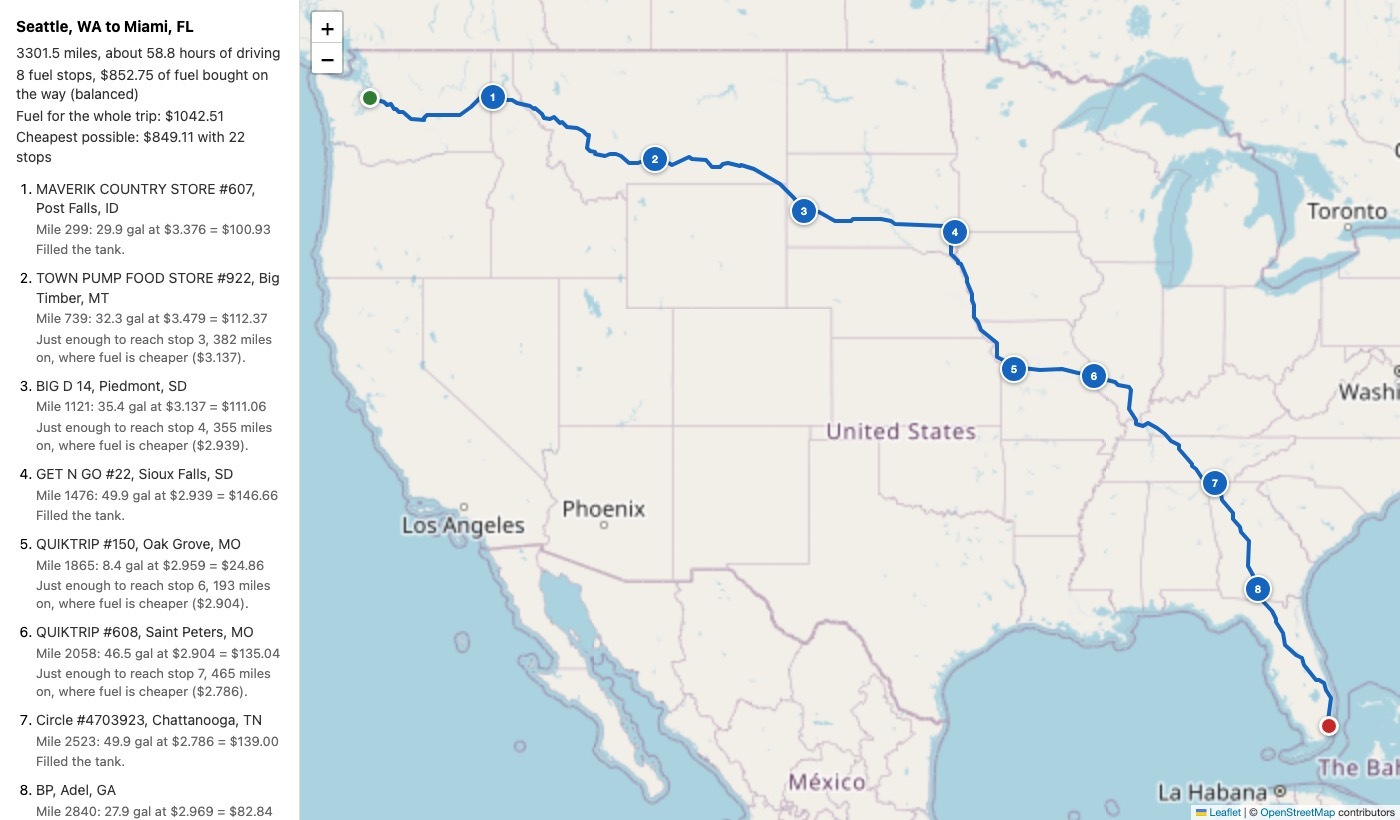
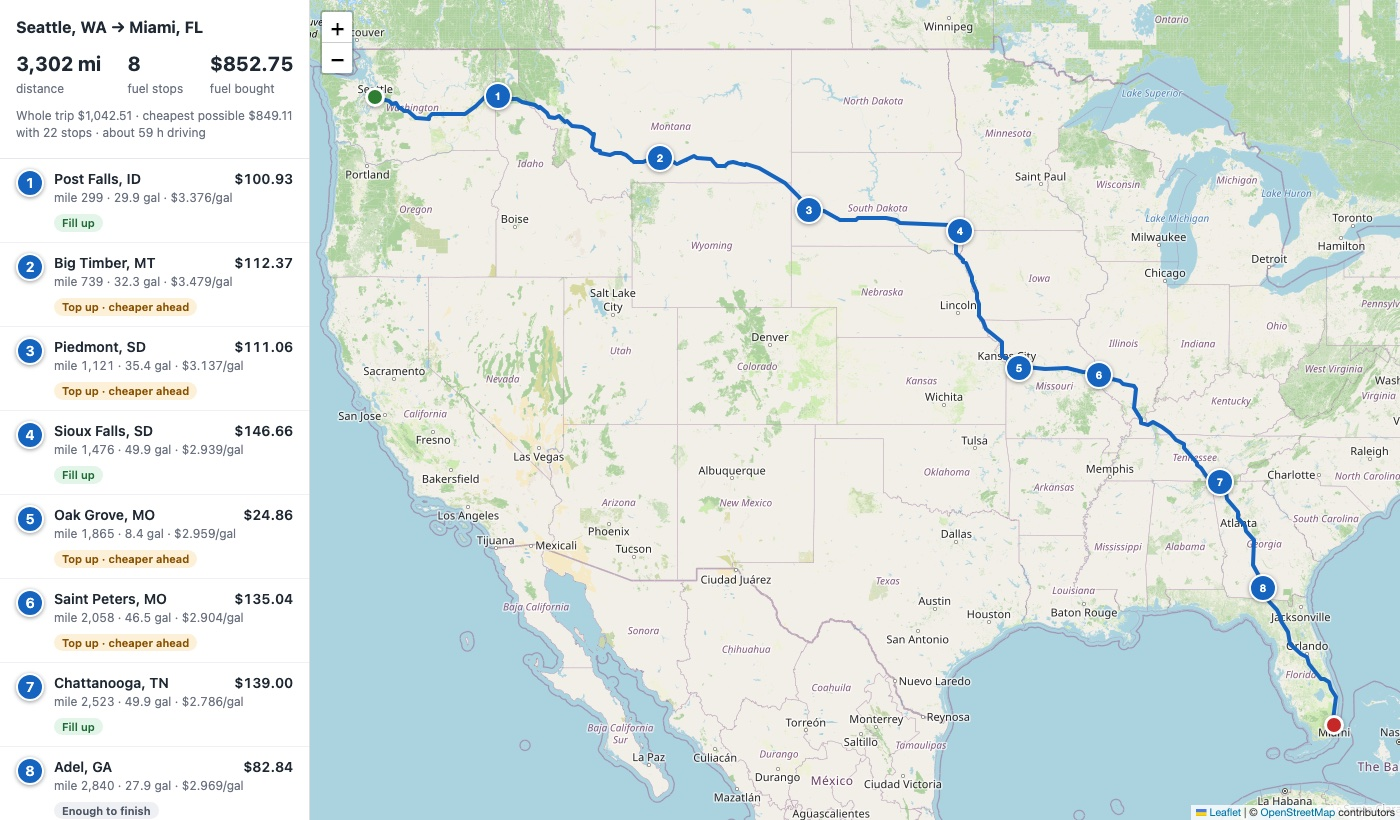
Make the map panel readable at a glance
Three headline numbers, one short line per stop with a tag (fill up or
top up before cheaper fuel), and the full reasons in each stop's popup.

diff --git a/fuel/templates/fuel/map.html b/fuel/templates/fuel/map.html
@@ -7,26 +7,40 @@
   <link rel="stylesheet" href="https://unpkg.com/leaflet@1.9.4/dist/leaflet.css">
   <script src="https://unpkg.com/leaflet@1.9.4/dist/leaflet.js"></script>
   <style>
-    html, body { height: 100%; margin: 0; font: 14px/1.4 system-ui, sans-serif; }
+    html, body { height: 100%; margin: 0; font: 14px/1.4 system-ui, sans-serif; color: #1f2933; }
     body { display: flex; }
-    #panel { width: 300px; flex: none; padding: 16px; box-sizing: border-box; overflow-y: auto;
+    #panel { width: 310px; flex: none; box-sizing: border-box; overflow-y: auto;
              border-right: 1px solid #ddd; background: #fff; }
     #map { flex: 1; }
     @media (max-width: 700px) { body { flex-direction: column; } #panel { width: auto; border: 0; } }
-    #panel h1 { font-size: 15px; margin: 0 0 6px; }
-    #panel p { margin: 2px 0; color: #333; }
-    #panel .error { color: #b00020; }
-    #panel ol { padding-left: 20px; margin: 12px 0 0; }
-    #panel li { margin-bottom: 10px; }
-    #panel .muted { color: #666; font-size: 13px; }
+    #panel .error { color: #b00020; padding: 16px; }
+    .head { padding: 16px; border-bottom: 1px solid #e5e7eb; }
+    .head h1 { font-size: 16px; margin: 0 0 12px; }
+    .figures { display: flex; justify-content: space-between; gap: 8px; }
+    .figures b { display: block; font-size: 20px; font-variant-numeric: tabular-nums; }
+    .figures span { color: #6b7280; font-size: 12px; }
+    .aside { color: #6b7280; font-size: 12px; margin: 10px 0 0; }
+    .stops { list-style: none; margin: 0; padding: 0; }
+    .stops li { display: flex; gap: 10px; padding: 10px 16px; border-bottom: 1px solid #f0f1f3; cursor: pointer; }
+    .stops li:hover { background: #f5f8fc; }
+    .stops .body { flex: 1; min-width: 0; }
+    .stops .top { display: flex; justify-content: space-between; gap: 8px; font-weight: 600; }
+    .stops .top span:last-child { font-variant-numeric: tabular-nums; }
+    .stops .detail { color: #6b7280; font-size: 12px; margin: 2px 0 5px; font-variant-numeric: tabular-nums; }
+    .tag { display: inline-block; font-size: 11px; font-weight: 600; padding: 1px 8px; border-radius: 10px; }
+    .tag.fill { background: #e3f4e8; color: #1e6b35; }
+    .tag.top-up { background: #fdf0d9; color: #8a5300; }
+    .tag.other { background: #eef0f3; color: #4b5563; }
+    .popup p { margin: 3px 0; }
+    .popup .muted { color: #6b7280; font-size: 12px; }
     .end { width: 14px; height: 14px; border-radius: 50%; border: 3px solid #fff; box-shadow: 0 1px 4px rgba(0,0,0,.4); }
-    .stop { background: #1565c0; color: #fff; border-radius: 50%; width: 24px; height: 24px;
+    .stop { flex: none; background: #1565c0; color: #fff; border-radius: 50%; width: 24px; height: 24px;
             line-height: 24px; text-align: center; font-weight: 600; border: 2px solid #fff;
             box-shadow: 0 1px 4px rgba(0,0,0,.4); }
   </style>
 </head>
 <body>
-  <div id="panel"><p>Planning the route...</p></div>
+  <div id="panel"><p class="head">Planning the route...</p></div>
   <div id="map"></div>
   <script>
     const map = L.map('map').setView([39.5, -98.35], 4);
@@ -36,11 +50,27 @@
     }).addTo(map);
     const panel = document.getElementById('panel');
 
-    function line(text, className) {
-      const p = document.createElement('p');
-      p.textContent = text;
-      if (className) p.className = className;
-      return p;
+    // Builds an element with text only, so nothing from the response is ever read as HTML.
+    function el(tag, text, className) {
+      const node = document.createElement(tag);
+      if (text !== undefined) node.textContent = text;
+      if (className) node.className = className;
+      return node;
+    }
+    const money = value => '$' + value.toLocaleString('en-US', { minimumFractionDigits: 2, maximumFractionDigits: 2 });
+
+    // A short label for each stop's reason; the full sentence is in its popup.
+    function tag(why) {
+      if (why.startsWith('Filled')) return el('span', 'Fill up', 'tag fill');
+      if (why.startsWith('Just enough')) return el('span', 'Top up · cheaper ahead', 'tag top-up');
+      if (why.includes('destination')) return el('span', 'Enough to finish', 'tag other');
+      return el('span', 'Enough for the next stop', 'tag other');
+    }
+
+    function figure(value, label) {
+      const box = el('div');
+      box.append(el('b', value), el('span', label));
+      return box;
     }
 
     fetch('/api/route/' + window.location.search, { headers: { Accept: 'application/json' } })
@@ -48,31 +78,26 @@
       .then(plan => {
         panel.replaceChildren();
         if (plan.error) {
-          panel.append(line(plan.error.message, 'error'));
+          panel.append(el('p', plan.error.message, 'error'));
           return;
         }
         const s = plan.summary;
-        const title = document.createElement('h1');
-        title.textContent = `${plan.start.resolved} to ${plan.finish.resolved}`;
-        panel.append(
-          title,
-          line(`${s.distance_miles} miles, about ${s.drive_hours} hours of driving`),
-          line(`${s.stops} fuel stops, $${s.fuel_bought_usd.toFixed(2)} of fuel bought on the way (${s.mode})`),
-          line(`Fuel for the whole trip: $${s.trip_fuel_cost_usd.toFixed(2)}`),
-          line(`Cheapest possible: $${plan.compared_to_cheapest.cheapest_cost_usd.toFixed(2)} with ` +
-               `${plan.compared_to_cheapest.cheapest_stops} stops`),
+        const cheapest = plan.compared_to_cheapest;
+        const head = el('div', undefined, 'head');
+        const figures = el('div', undefined, 'figures');
+        figures.append(
+          figure(Math.round(s.distance_miles).toLocaleString('en-US') + ' mi', 'distance'),
+          figure(String(s.stops), s.stops === 1 ? 'fuel stop' : 'fuel stops'),
+          figure(money(s.fuel_bought_usd), 'fuel bought'),
         );
-        const list = document.createElement('ol');
-        plan.stops.forEach(stop => {
-          const item = document.createElement('li');
-          item.append(
-            line(`${stop.name}, ${stop.city}, ${stop.state}`),
-            line(`Mile ${Math.round(stop.mile)}: ${stop.gallons} gal at $${stop.price_per_gallon.toFixed(3)} = $${stop.cost_usd.toFixed(2)}`, 'muted'),
-            line(stop.why, 'muted'),
-          );
-          list.append(item);
-        });
-        panel.append(list);
+        head.append(
+          el('h1', `${plan.start.resolved} → ${plan.finish.resolved}`),
+          figures,
+          el('p', `Whole trip ${money(s.trip_fuel_cost_usd)} · cheapest possible ${money(cheapest.cheapest_cost_usd)} ` +
+                  `with ${cheapest.cheapest_stops} stops · about ${Math.round(s.drive_hours)} h driving`, 'aside'),
+        );
+        panel.append(head);
+
         const route = L.geoJSON(plan.map.features.filter(f => f.properties.kind === 'route'),
                                 { style: { color: '#1565c0', weight: 4 } }).addTo(map);
         [[plan.start, '#2e7d32'], [plan.finish, '#c62828']].forEach(([place, colour]) => {
@@ -80,21 +105,40 @@
             icon: L.divIcon({ className: '', html: `<div class="end" style="background:${colour}"></div>`, iconSize: [20, 20] }),
           }).addTo(map).bindTooltip(place.resolved);
         });
+
+        const list = el('ol', undefined, 'stops');
         plan.stops.forEach(stop => {
           const marker = L.marker([stop.latitude, stop.longitude], {
             icon: L.divIcon({ className: '', html: `<div class="stop">${stop.order}</div>`, iconSize: [24, 24] }),
           }).addTo(map);
-          const popup = document.createElement('div');
+          const popup = el('div', undefined, 'popup');
           popup.append(
-            line(`${stop.order}. ${stop.name}`),
-            line(`${stop.city}, ${stop.state} · mile ${stop.mile}`),
-            line(`${stop.gallons} gal at $${stop.price_per_gallon.toFixed(3)} = $${stop.cost_usd.toFixed(2)}`),
+            el('p', `${stop.order}. ${stop.name}`),
+            el('p', `${stop.address}, ${stop.city}, ${stop.state}`, 'muted'),
+            el('p', `Mile ${Math.round(stop.mile)} · ${stop.gallons} gal at $${stop.price_per_gallon.toFixed(3)} = ${money(stop.cost_usd)}`),
+            el('p', stop.why),
+            el('p', 'Price: ' + stop.price_basis, 'muted'),
+            el('p', 'Location: ' + stop.location_basis, 'muted'),
           );
-          marker.bindPopup(popup);
+          marker.bindPopup(popup, { maxWidth: 300 });
+
+          const item = el('li');
+          const body = el('div', undefined, 'body');
+          const top = el('div', undefined, 'top');
+          top.append(el('span', `${stop.city}, ${stop.state}`), el('span', money(stop.cost_usd)));
+          body.append(
+            top,
+            el('div', `mile ${Math.round(stop.mile).toLocaleString('en-US')} · ${stop.gallons} gal · $${stop.price_per_gallon.toFixed(3)}/gal`, 'detail'),
+            tag(stop.why),
+          );
+          item.append(el('div', String(stop.order), 'stop'), body);
+          item.addEventListener('click', () => { map.panTo(marker.getLatLng()); marker.openPopup(); });
+          list.append(item);
         });
+        panel.append(list);
         map.fitBounds(route.getBounds(), { padding: [30, 30] });
       })
-      .catch(() => panel.replaceChildren(line('Could not load the plan.', 'error')));
+      .catch(() => panel.replaceChildren(el('p', 'Could not load the plan.', 'error')));
   </script>
 </body>
 </html>
